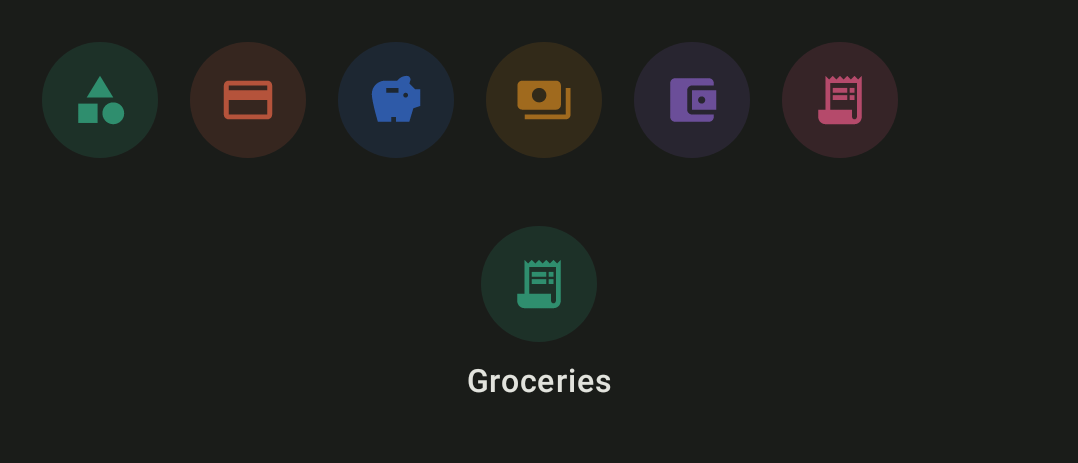
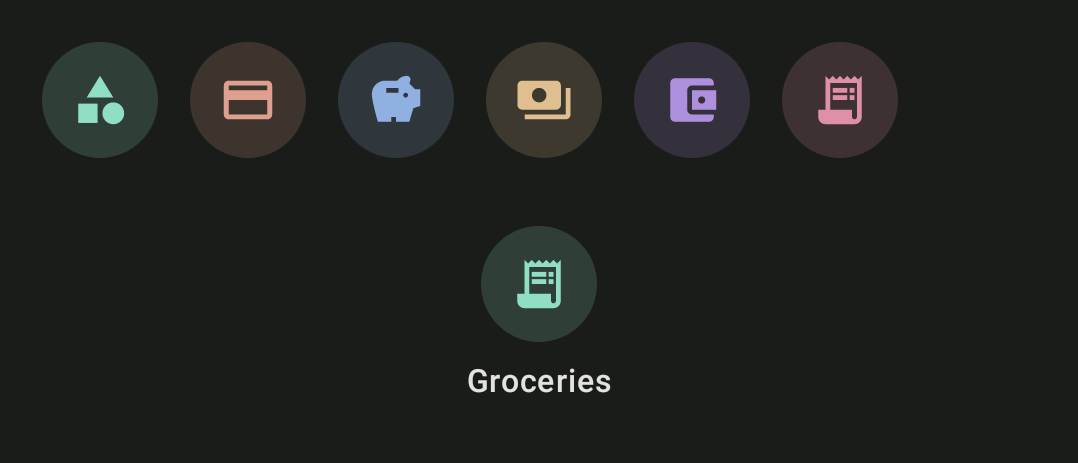
feat(uikit): theme-aware category tints
The eight category tints were chosen against the light surface and reused
verbatim in dark, where they read as mid-dark both as the icon tint and as
the 18% wash behind it. Move the hexes into AppColors.CategoryTints, add a
dark set at the lightness the other dark accents already sit at, and route
the palette's colour resolvers through SemanticColors so they follow the
theme. Slot resolution stays pure, which is what the parity test asserts.

diff --git a/uikit/src/commonMain/kotlin/com/georgeci/moneysurfer/uikit/components/SurferCategoryBubble.kt b/uikit/src/commonMain/kotlin/com/georgeci/moneysurfer/uikit/components/SurferCategoryBubble.kt
@@ -10,6 +10,7 @@ import androidx.compose.foundation.layout.size
 import androidx.compose.foundation.shape.CircleShape
 import androidx.compose.material3.Icon
 import androidx.compose.runtime.Composable
+import androidx.compose.runtime.ReadOnlyComposable
 import androidx.compose.ui.Alignment
 import androidx.compose.ui.Modifier
 import androidx.compose.ui.draw.clip
@@ -20,6 +21,7 @@ import androidx.compose.ui.unit.Dp
 import androidx.compose.ui.unit.dp
 import com.georgeci.moneysurfer.uikit.icons.SurferIcons
 import com.georgeci.moneysurfer.uikit.preview.SurferComponentPreview
+import com.georgeci.moneysurfer.uikit.theme.AppTheme
 
 /**
  * Circular bubble used to represent a category across the app (dashboard rows, transaction
@@ -65,18 +67,20 @@ data class SurferCategoryVisual(
  * [iconKeys] and [hues] are positionally paired with [icons] and [tints] and must stay in
  * lockstep with `CategoryAppearance` in the domain module — uikit deliberately does not depend
  * on domain, so `CategoryPaletteParityTest` in feature/category asserts the two agree.
+ *
+ * Tints are theme-dependent, so everything that resolves to a [Color] is `@Composable` and reads
+ * the current theme; the index-level resolvers ([tintIndexForHue] and friends) stay pure, which
+ * is also what the parity test asserts against.
  */
 object SurferCategoryPalette {
-    val tints: List<Color> = listOf(
-        Color(0xFF2F8E6E), // mint   — hue 162
-        Color(0xFFB5533B), // amber  — hue  35
-        Color(0xFF2E5AA8), // indigo — hue 258
-        Color(0xFFA06A1E), // citrus — hue  68
-        Color(0xFF6B4E99), // plum   — hue 303
-        Color(0xFFB54A6B), // rose   — hue 340
-        Color(0xFFB54744), // clay   — hue   8
-        Color(0xFF6B7D3D), // moss   — hue  90
-    )
+    /**
+     * Palette tints for the current theme, in the order [hues] describes. Light and dark
+     * variants live in `AppColors.CategoryTints` / `AppColors.Dark.CategoryTints`.
+     */
+    val tints: List<Color>
+        @Composable
+        @ReadOnlyComposable
+        get() = AppTheme.semanticColors.categoryTints
 
     val icons: List<ImageVector> = listOf(
         SurferIcons.Category,
@@ -111,7 +115,11 @@ object SurferCategoryPalette {
     const val TRANSFER_ICON_KEY: String = "transfer"
 
     /** Tint for the system Transfer category. Kept fixed (not hashed) so it's always recognisable. */
-    val TransferTint: Color = Color(0xFF2E5AA8)
+    val TransferTint: Color
+        @Composable
+        @ReadOnlyComposable
+        get() = AppTheme.semanticColors.transfer
+
     val TransferIcon: ImageVector = SurferIcons.SwapHoriz
 
     /**
@@ -122,6 +130,8 @@ object SurferCategoryPalette {
      * grey. A stored value that names nothing in this palette — a key from a newer build, a hue
      * off the wheel — degrades to that same fallback rather than throwing.
      */
+    @Composable
+    @ReadOnlyComposable
     fun visualFor(
         id: String,
         iconKey: String,
@@ -142,16 +152,18 @@ object SurferCategoryPalette {
      * Tint for a stored hue, snapped to the nearest palette hue around the colour wheel, or null
      * when the hue is off the wheel entirely (the "never stored" sentinel).
      */
+    @Composable
+    @ReadOnlyComposable
     fun tintForHue(hue: Int, systemKind: String? = null): Color? {
         if (systemKind == SYSTEM_KIND_TRANSFER) return TransferTint
-        if (hue < 0 || hue >= HUE_DEGREES) return null
-        val nearest = hues.indices.minBy { circularHueDistance(hues[it], hue) }
-        return tints[nearest]
+        return tintIndexForHue(hue)?.let { tints[it] }
     }
 
+    @Composable
+    @ReadOnlyComposable
     fun tintFor(id: String, systemKind: String? = null): Color {
         if (systemKind == SYSTEM_KIND_TRANSFER) return TransferTint
-        return tints[nonNegativeMod(stringHash(id), tints.size)]
+        return tints[tintIndexFor(id)]
     }
 
     fun iconFor(id: String, systemKind: String? = null): ImageVector {
@@ -159,17 +171,18 @@ object SurferCategoryPalette {
         return icons[nonNegativeMod(stringHash(id), icons.size)]
     }
 
-    fun tintForName(name: String): Color =
-        if (name.isEmpty()) {
-            tints[0]
-        } else {
-            tints[
-                nonNegativeMod(
-                    name.fold(0L) { acc, c -> acc * 31 + c.code },
-                    tints.size,
-                ),
-            ]
-        }
+    /**
+     * Index into [tints] for a stored hue, snapped to the nearest palette hue around the colour
+     * wheel, or null when the hue is off the wheel entirely (the "never stored" sentinel).
+     * Theme-free half of [tintForHue].
+     */
+    fun tintIndexForHue(hue: Int): Int? {
+        if (hue < 0 || hue >= HUE_DEGREES) return null
+        return hues.indices.minBy { circularHueDistance(hues[it], hue) }
+    }
+
+    /** Index into [tints] for a category that stored no hue. Theme-free half of [tintFor]. */
+    fun tintIndexFor(id: String): Int = nonNegativeMod(stringHash(id), hues.size)
 
     private fun circularHueDistance(a: Int, b: Int): Int {
         val diff = kotlin.math.abs(a - b)

diff --git a/feature/category/src/commonTest/kotlin/com/georgeci/moneysurfer/feature/category/CategoryPaletteParityTest.kt b/feature/category/src/commonTest/kotlin/com/georgeci/moneysurfer/feature/category/CategoryPaletteParityTest.kt
@@ -2,6 +2,7 @@ package com.georgeci.moneysurfer.feature.category
 
 import com.georgeci.moneysurfer.domain.model.CategoryAppearance
 import com.georgeci.moneysurfer.uikit.components.SurferCategoryPalette
+import com.georgeci.moneysurfer.uikit.tokens.AppColors
 import io.kotest.core.spec.style.StringSpec
 import io.kotest.matchers.shouldBe
 
@@ -31,33 +32,35 @@ class CategoryPaletteParityTest : StringSpec({
             (SurferCategoryPalette.iconForKey(key) != null) shouldBe true
         }
         CategoryAppearance.HUES.forEach { hue ->
-            (SurferCategoryPalette.tintForHue(hue) != null) shouldBe true
+            (SurferCategoryPalette.tintIndexForHue(hue) != null) shouldBe true
         }
+    }
+
+    "both themes carry a tint for every hue in the catalogue" {
+        AppColors.CategoryTints.size shouldBe CategoryAppearance.HUES.size
+        AppColors.Dark.CategoryTints.size shouldBe CategoryAppearance.HUES.size
     }
 
     "the unset sentinels fall back rather than resolving to a real slot" {
         SurferCategoryPalette.iconForKey("") shouldBe null
-        SurferCategoryPalette.tintForHue(CategoryAppearance.UNSET_HUE) shouldBe null
+        SurferCategoryPalette.tintIndexForHue(CategoryAppearance.UNSET_HUE) shouldBe null
     }
 
-    "a stored appearance beats the id hash, and an unstored one falls back to it" {
-        val stored = SurferCategoryPalette.visualFor(
-            id = "c-1",
-            iconKey = CategoryAppearance.ICON_KEYS[3],
-            hue = CategoryAppearance.HUES[3],
-        )
-        stored.icon shouldBe SurferCategoryPalette.icons[3]
-        stored.tint shouldBe SurferCategoryPalette.tints[3]
+    "a stored appearance lands on its own slot, and the id-hash fallback agrees with domain" {
+        SurferCategoryPalette.iconForKey(CategoryAppearance.ICON_KEYS[3]) shouldBe
+            SurferCategoryPalette.icons[3]
+        SurferCategoryPalette.tintIndexForHue(CategoryAppearance.HUES[3]) shouldBe 3
 
-        val unstored = SurferCategoryPalette.visualFor(id = "c-1", iconKey = "", hue = -1)
-        unstored.icon shouldBe SurferCategoryPalette.iconForKey(CategoryAppearance.defaultIconKey("c-1"))
-        unstored.tint shouldBe SurferCategoryPalette.tintForHue(CategoryAppearance.defaultHue("c-1"))
+        SurferCategoryPalette.iconFor("c-1") shouldBe
+            SurferCategoryPalette.iconForKey(CategoryAppearance.defaultIconKey("c-1"))
+        SurferCategoryPalette.tintIndexFor("c-1") shouldBe
+            SurferCategoryPalette.tintIndexForHue(CategoryAppearance.defaultHue("c-1"))
     }
 
     "an off-palette hue snaps to the nearest tint instead of disappearing" {
         // 165 is 3 degrees from the mint hue (162) and far from everything else.
-        SurferCategoryPalette.tintForHue(165) shouldBe SurferCategoryPalette.tints[0]
+        SurferCategoryPalette.tintIndexForHue(165) shouldBe 0
         // 355 wraps past 360 to reach clay (8) rather than settling on rose (340).
-        SurferCategoryPalette.tintForHue(355) shouldBe SurferCategoryPalette.tints[6]
+        SurferCategoryPalette.tintIndexForHue(355) shouldBe 6
     }
 })

diff --git a/uikit/src/commonMain/kotlin/com/georgeci/moneysurfer/uikit/tokens/AppColors.kt b/uikit/src/commonMain/kotlin/com/georgeci/moneysurfer/uikit/tokens/AppColors.kt
@@ -63,6 +63,26 @@ object AppColors {
      */
     val Warning = Color(0xFFA97110)
 
+    /**
+     * Category tints, in palette order (mint, amber, indigo, citrus, plum, rose, clay, moss).
+     * Chosen against the light surface; [Dark.CategoryTints] lifts the same hues for the dark
+     * one. Consumed through `SemanticColors.categoryTints` / `SurferCategoryPalette.tints` —
+     * screens and components never index into this list directly.
+     *
+     * Positionally paired with `SurferCategoryPalette.hues`; both must stay in lockstep with
+     * `CategoryAppearance` in the domain module.
+     */
+    val CategoryTints: List<Color> = listOf(
+        Color(0xFF2F8E6E), // mint   — hue 162
+        Color(0xFFB5533B), // amber  — hue  35
+        Color(0xFF2E5AA8), // indigo — hue 258
+        Color(0xFFA06A1E), // citrus — hue  68
+        Color(0xFF6B4E99), // plum   — hue 303
+        Color(0xFFB54A6B), // rose   — hue 340
+        Color(0xFFB54744), // clay   — hue   8
+        Color(0xFF6B7D3D), // moss   — hue  90
+    )
+
     // Dark theme overrides
     object Dark {
         val Primary = Color(0xFF6EDD72)
@@ -108,5 +128,25 @@ object AppColors {
 
         /** Same amber, lifted to the mockup's dark-scheme lightness (`oklch(78% 0.13 68)`). */
         val Warning = Color(0xFFE9B45E)
+
+        /**
+         * [AppColors.CategoryTints] with the same hues taken to the lightness the dark scheme's
+         * other accents sit at (HSL L 72% / S 55% — the rule that already produces [Expense] and
+         * [Transfer] from their light counterparts). The light tints are mid-dark on the dark
+         * surface, both as the icon tint and as the 18% wash behind it in `SurferCategoryBubble`.
+         *
+         * Index 2 (indigo) and index 6 (clay) are the same colours as [Transfer] and [Expense]
+         * in the light palette, so they reuse the dark values of those accents verbatim.
+         */
+        val CategoryTints: List<Color> = listOf(
+            Color(0xFF90DFC4), // mint
+            Color(0xFFDFA090), // amber
+            Transfer, //          indigo
+            Color(0xFFDFBE90), // citrus
+            Color(0xFFAF90DF), // plum
+            Color(0xFFDF90A9), // rose
+            Expense, //           clay
+            Color(0xFFC9DF90), // moss
+        )
     }
 }

diff --git a/uikit/src/commonMain/kotlin/com/georgeci/moneysurfer/uikit/theme/SemanticColors.kt b/uikit/src/commonMain/kotlin/com/georgeci/moneysurfer/uikit/theme/SemanticColors.kt
@@ -1,15 +1,22 @@
 package com.georgeci.moneysurfer.uikit.theme
 
+import androidx.compose.runtime.Immutable
 import androidx.compose.runtime.staticCompositionLocalOf
 import androidx.compose.ui.graphics.Color
 import com.georgeci.moneysurfer.uikit.tokens.AppColors
 
+@Immutable
 data class SemanticColors(
     val income: Color = AppColors.Income,
     val expense: Color = AppColors.Expense,
     val transfer: Color = AppColors.Transfer,
     /** Caution accent — a budget past its alert threshold but not yet over. */
     val warning: Color = AppColors.Warning,
+    /**
+     * Category tints in palette order. Read through `SurferCategoryPalette`, which owns the
+     * hue/icon-key mapping onto this list; call sites go through its resolvers.
+     */
+    val categoryTints: List<Color> = AppColors.CategoryTints,
 )
 
 internal val LightSemanticColors = SemanticColors(
@@ -17,6 +24,7 @@ internal val LightSemanticColors = SemanticColors(
     expense = AppColors.Expense,
     transfer = AppColors.Transfer,
     warning = AppColors.Warning,
+    categoryTints = AppColors.CategoryTints,
 )
 
 internal val DarkSemanticColors = SemanticColors(
@@ -24,6 +32,7 @@ internal val DarkSemanticColors = SemanticColors(
     expense = AppColors.Dark.Expense,
     transfer = AppColors.Dark.Transfer,
     warning = AppColors.Dark.Warning,
+    categoryTints = AppColors.Dark.CategoryTints,
 )
 
 val LocalSemanticColors = staticCompositionLocalOf { LightSemanticColors }

diff --git a/feature/category/src/commonMain/kotlin/com/georgeci/moneysurfer/feature/category/picker/CategoryChooserContent.kt b/feature/category/src/commonMain/kotlin/com/georgeci/moneysurfer/feature/category/picker/CategoryChooserContent.kt
@@ -192,7 +192,9 @@ private fun SectionLabel(text: String) {
     )
 }
 
-private val previewRows = listOf(
+// Composable: category tints are theme-dependent, so the rows resolve inside the preview.
+@Composable
+private fun previewRows(): List<CategoryPickerRow> = listOf(
     CategoryPickerRow(
         id = "groceries",
         name = "Groceries",
@@ -240,7 +242,7 @@ private fun CategoryChooserContentPreview() {
         CategoryChooserContent(
             title = "Category",
             searchPlaceholder = "Search categories",
-            categories = previewRows,
+            categories = previewRows(),
             selectedId = "groceries",
             expenseSectionTitle = "Expense",
             incomeSectionTitle = "Income",

diff --git a/uikit/src/commonMain/kotlin/com/georgeci/moneysurfer/uikit/components/transaction/SurferTransactionLine.kt b/uikit/src/commonMain/kotlin/com/georgeci/moneysurfer/uikit/components/transaction/SurferTransactionLine.kt
@@ -63,7 +63,7 @@ fun SurferTransactionLine(
     onClick: (() -> Unit)? = null,
 ) {
     val categorySeed = categoryHueSeed?.takeIf { it.isNotBlank() }
-    val categoryTint = categorySeed?.let(SurferCategoryPalette::tintFor)
+    val categoryTint = categorySeed?.let { SurferCategoryPalette.tintFor(it) }
     val leadingIcon = categorySeed?.let(SurferCategoryPalette::iconFor) ?: icon
     val leadingIconTint = categoryTint ?: iconTint
     val leadingIconBackground = categoryTint?.copy(alpha = 0.18f) ?: iconBackground
